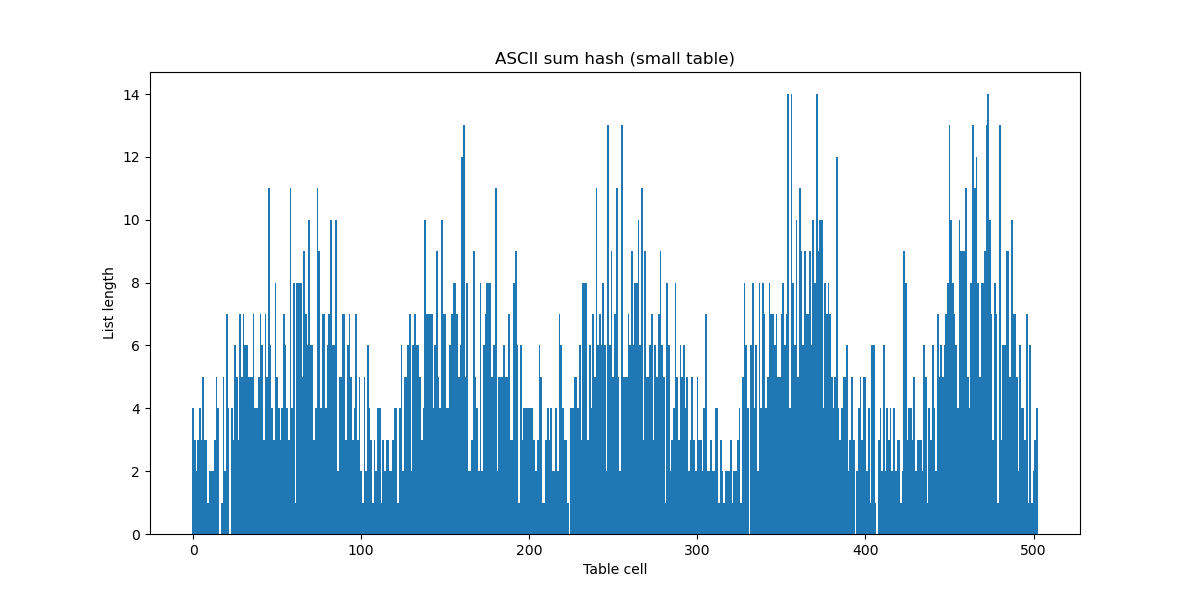
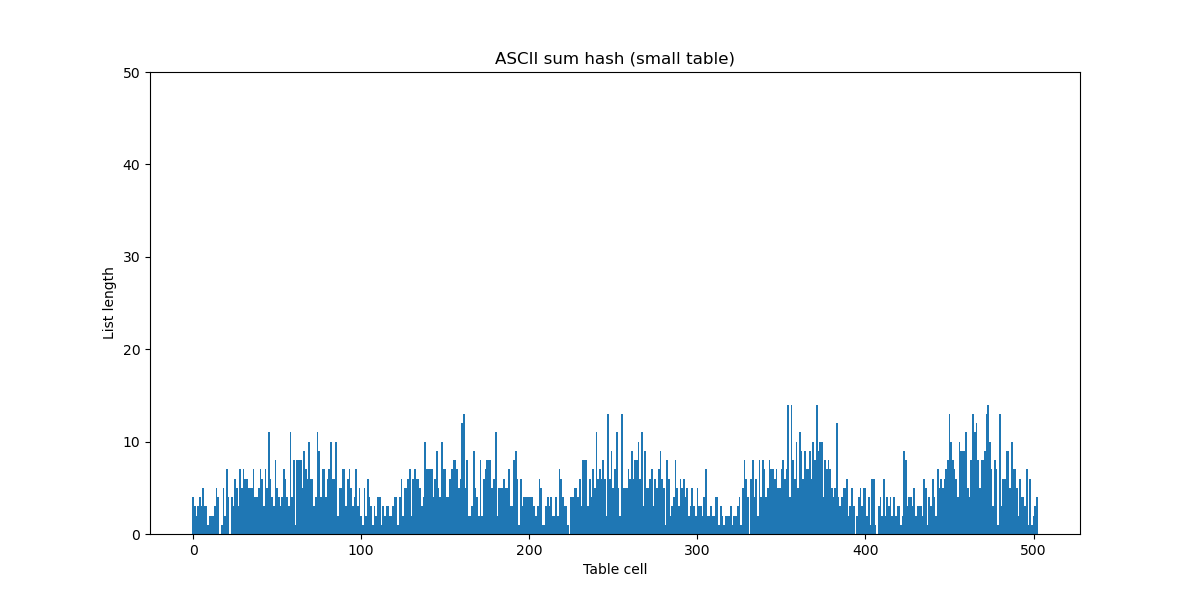
better graphic

diff --git a/assets/output/graphic.py b/assets/output/graphic.py
@@ -16,7 +16,7 @@ def plot_bar_chart(x_values, y_values):
     plt.xlabel('Table cell')
     plt.ylabel('List length')
     plt.title('ASCII sum hash (small table)')
-    #plt.ylim(0, 50)
+    plt.ylim(0, 50)
     #plt.xlim(0, 3000)
 
     plt.show()
